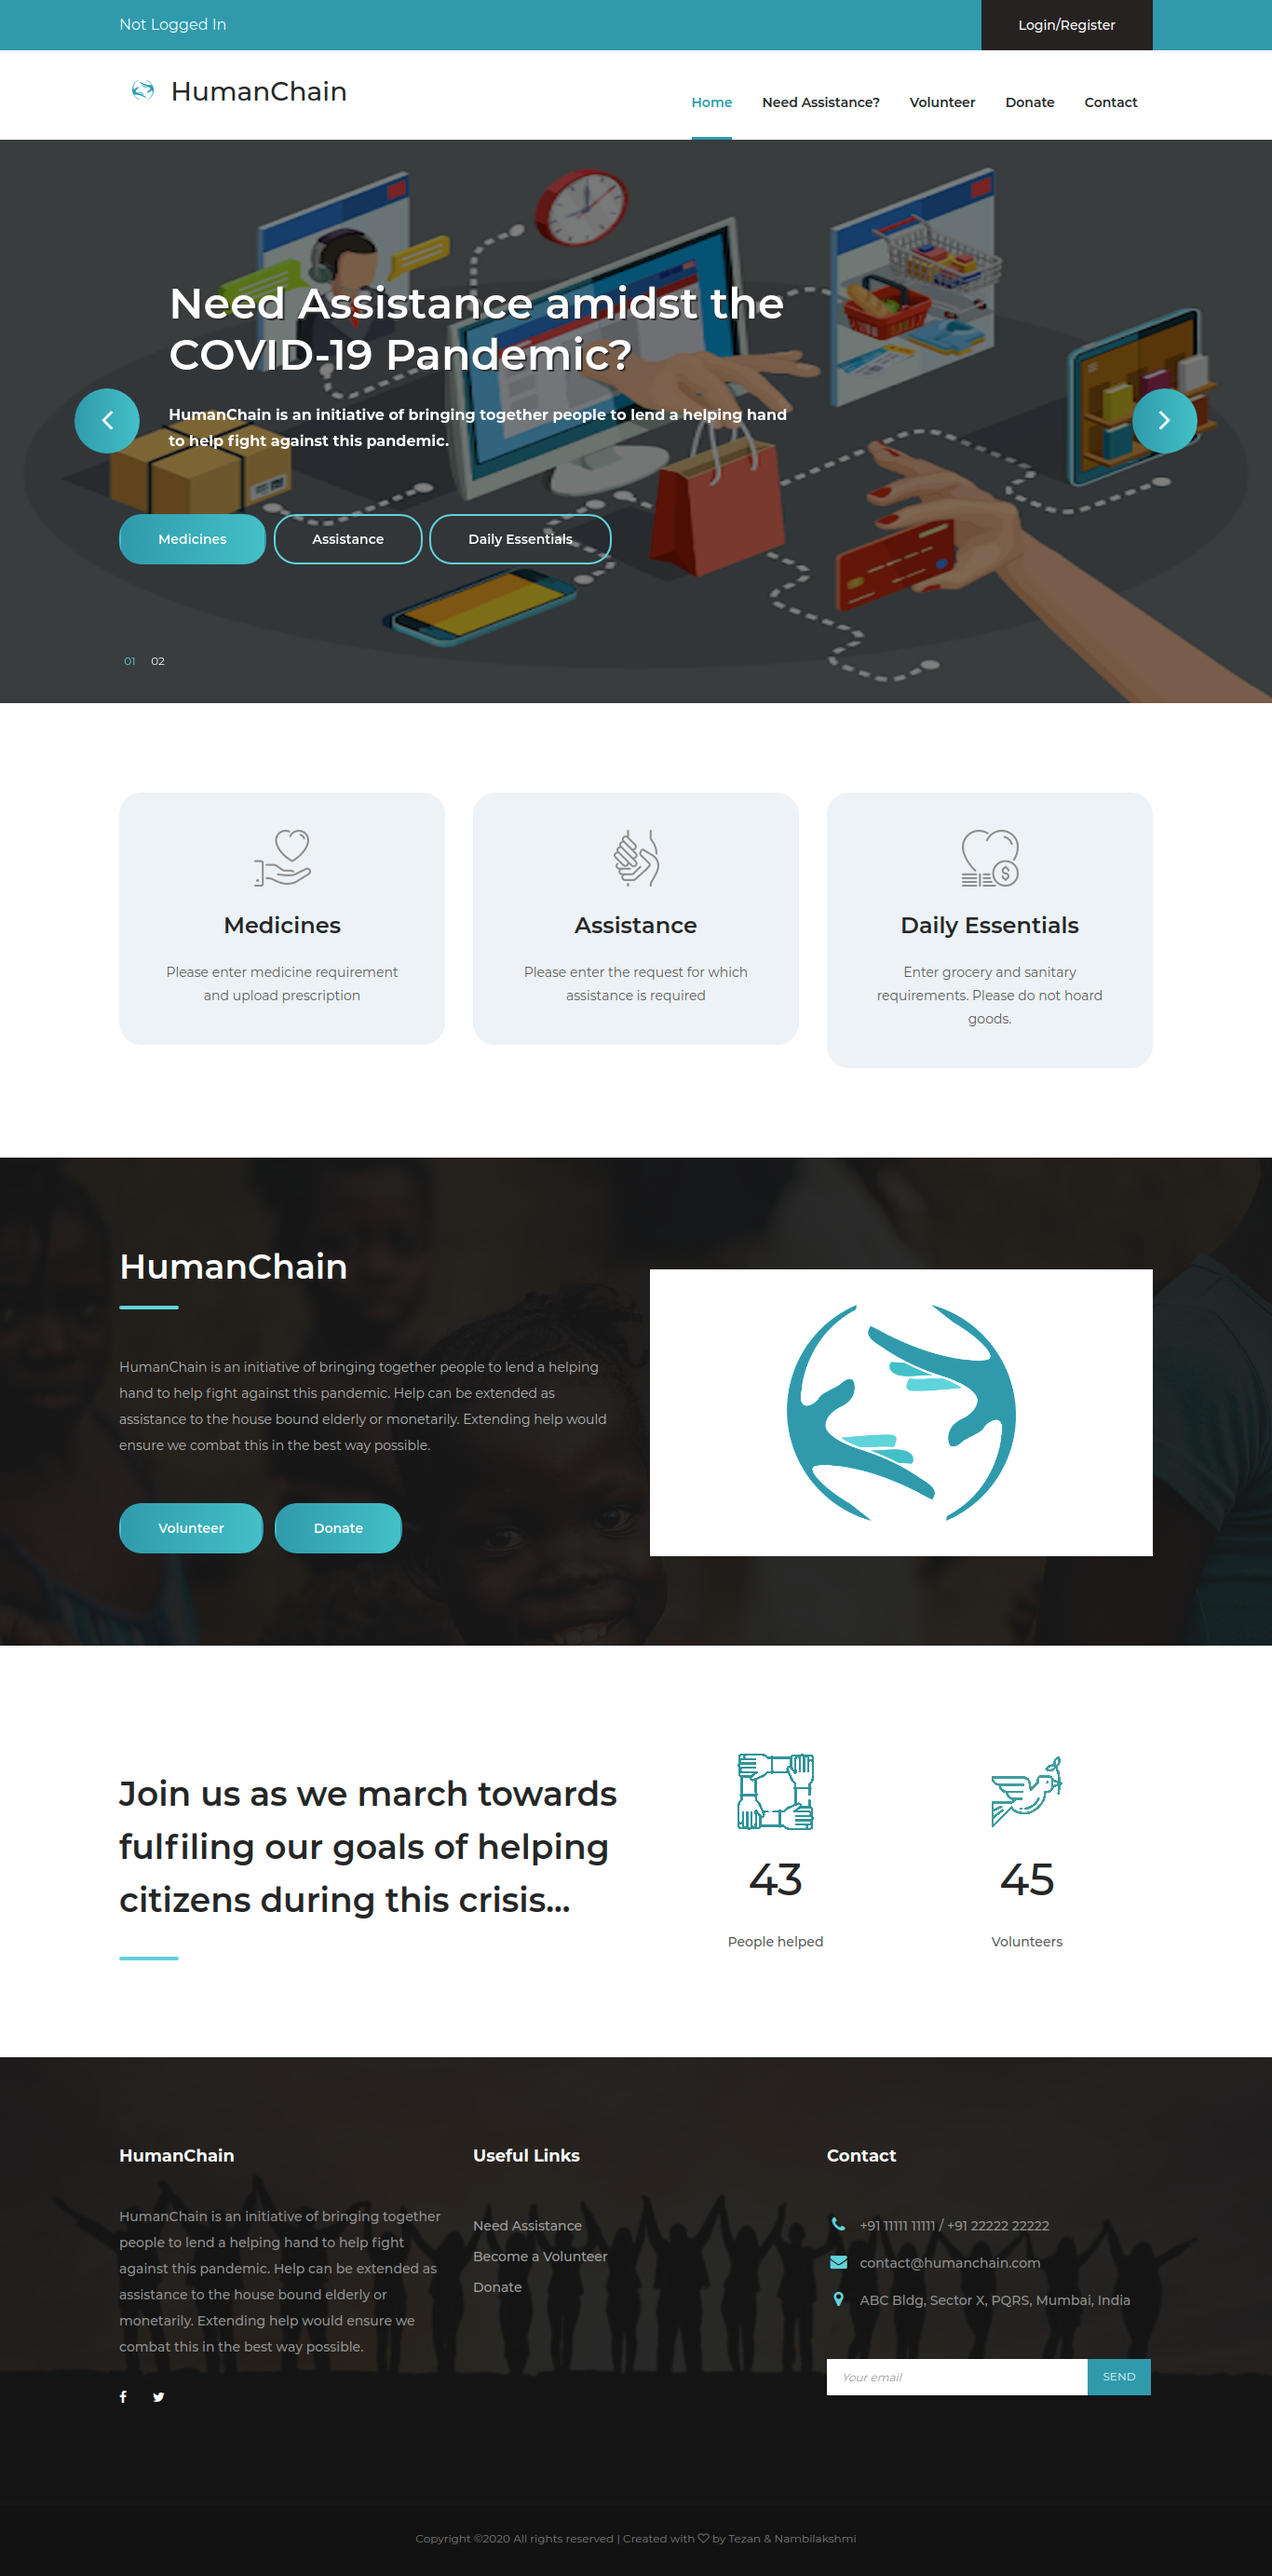
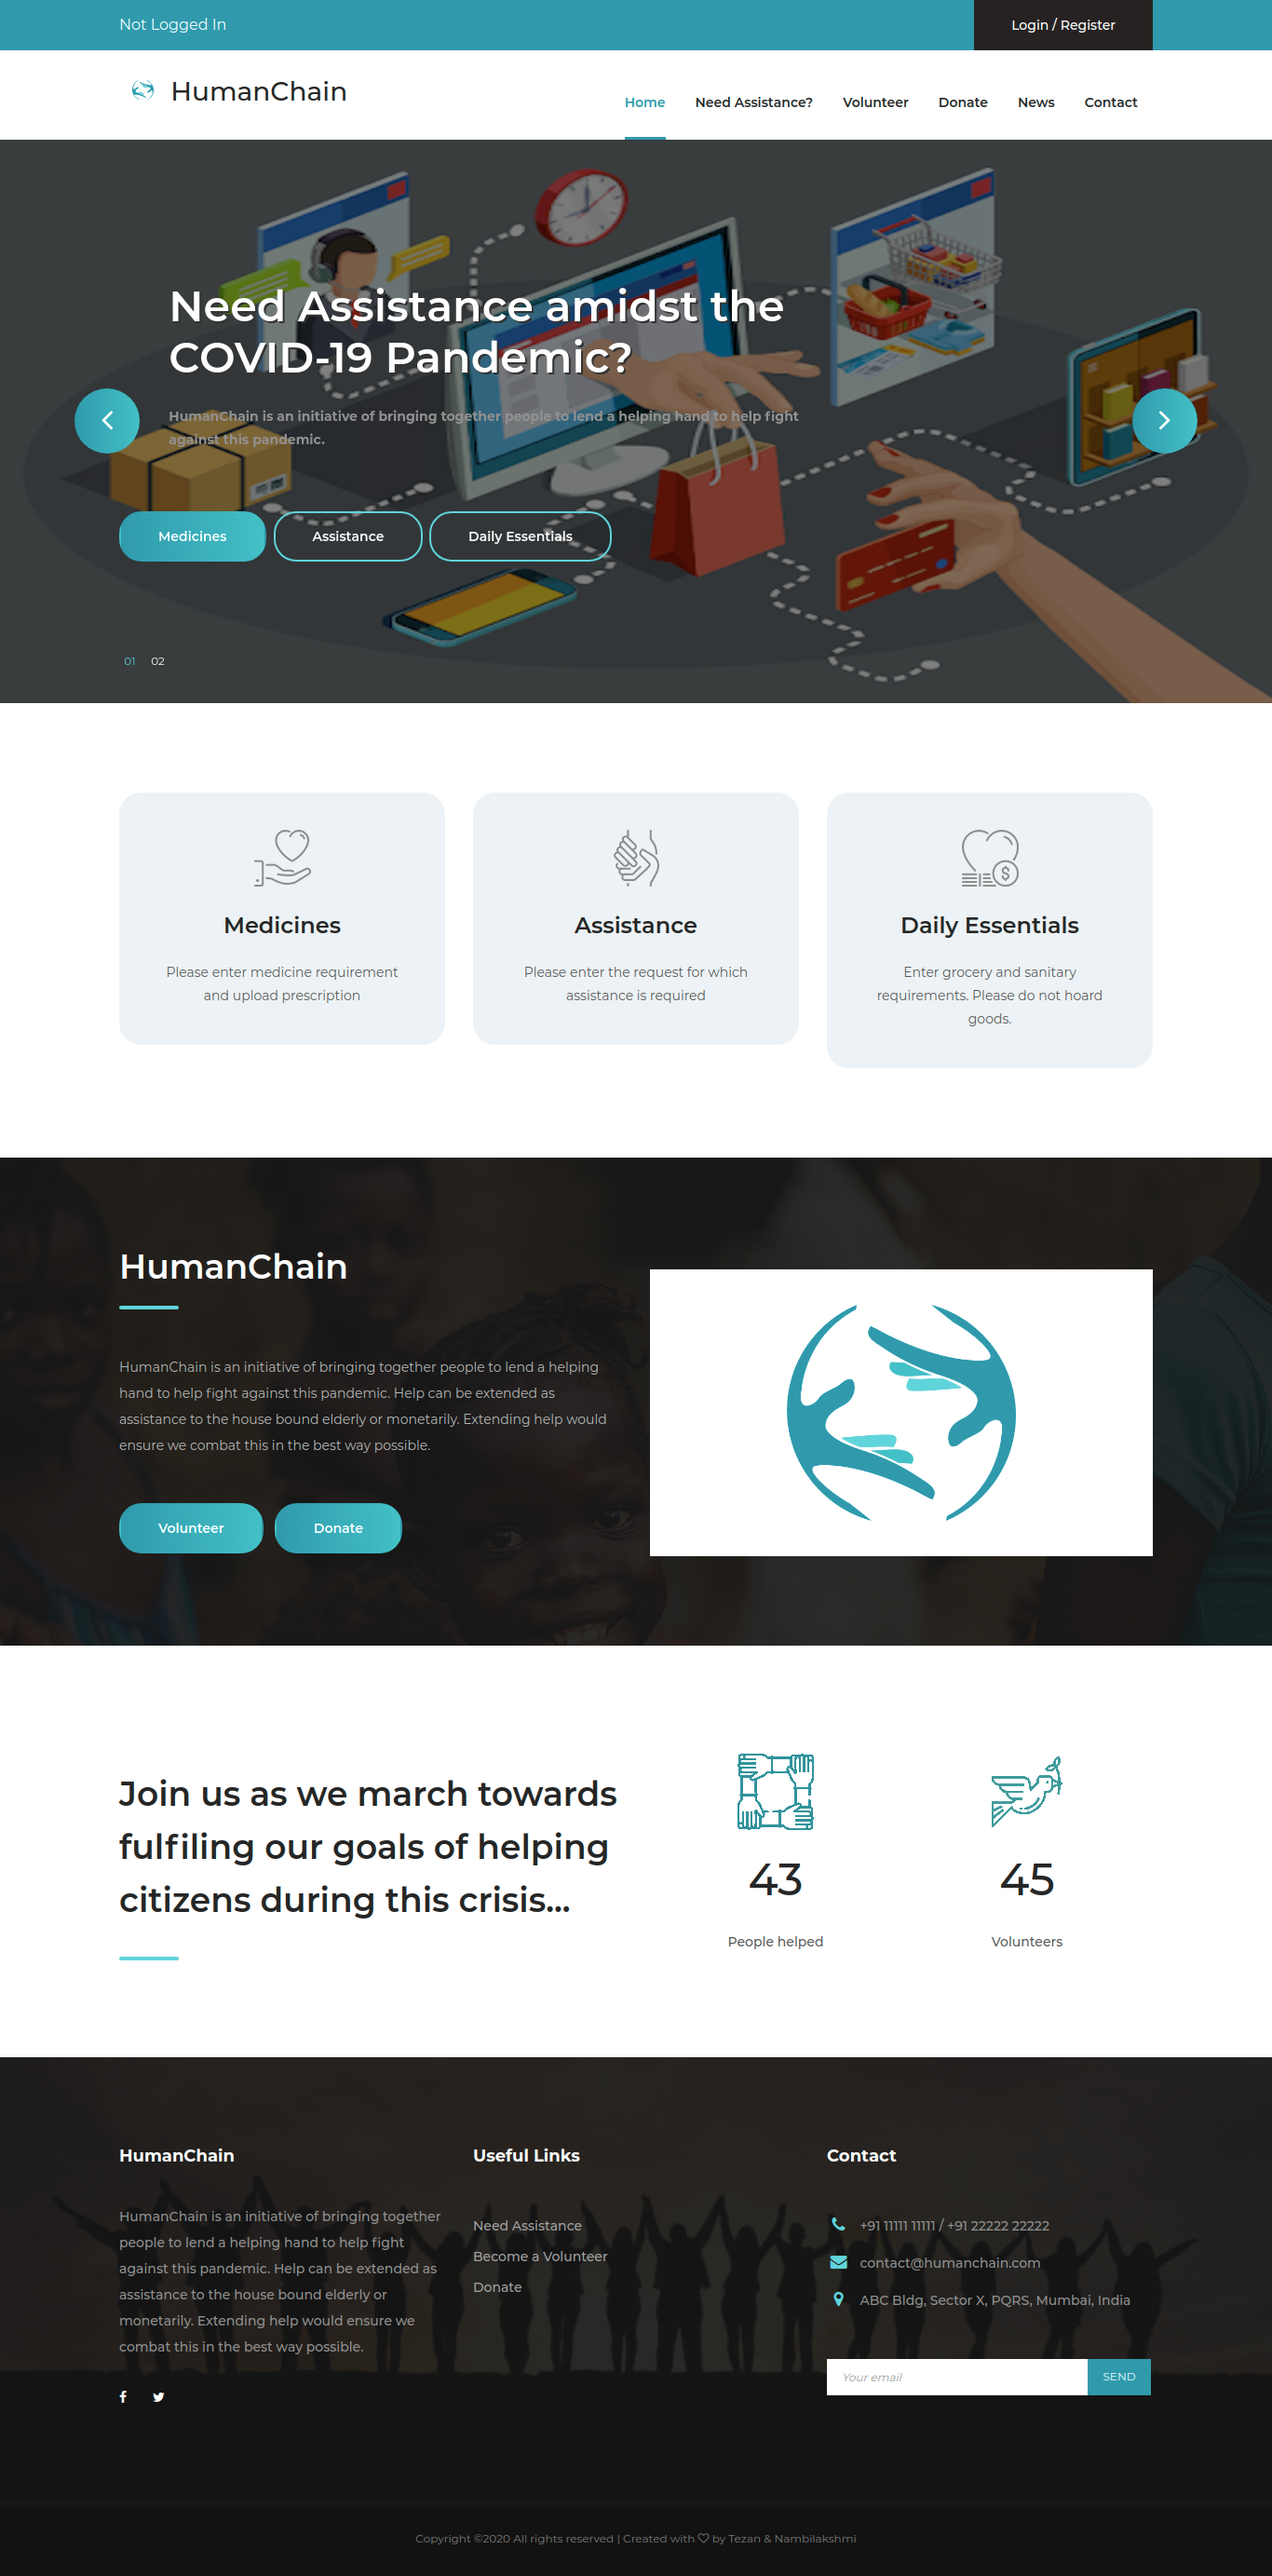
updated readme

diff --git a/README.md b/README.md
@@ -1,34 +1,41 @@
 <h1 align="center">HumanChain</h1>
 <p align="center"> </p>
 
-***
-
-### Problem Statement 
+## Problem Statement 
 Our world turned upside down with the outbreak. With the ever-growing numbers, essential services have come to a stop, the everyday routine is constricted to with people being forced to go into lockdown. In such a scenario, panic is profound and ubiquitous. Procuring daily supplies is becoming increasingly nightmarish and homebound patients who need assistance are helpless. Though people have been asking help through varied platforms and some have also offered help, there is an absence of a universal stop which serves all needs.
 
-### Our Solution: HumanChain 
+## Our Solution: HumanChain 
 
 HumanChain is an interface that bridges the gap and brings together these people as it suggests, build a human chain for providing help for those in need, to fight this pandemic.
 
 ![github-small](/client/images/launchpage.png) 
 
-### Features
-#### Need Assistance?
-Enter personal details along with the details of the requirement. Assistance is divided into three categories, 
-1. Medical (upload prescription)
-2. Physical Assistance
-3. Daily Essentials (groceries, milk etc..)
-#### Volunteer
-One can enlist to volunteer for those in need. The page showcases details of people who need help and the type of help required.
-#### Donate
-Currently, a monetary donation can be made for two main causes
-1. Welfare aid
-2. Medical aid
-An additional feature is donation in kind, where one can upload supplies the person can donate for those in need. Includes food, groceries & sanitaryware
-#### News 
-This page shows COVID related news from all over the world along with a live counter of the number of people affected by it in a country-wise tally
+## Features
 
-## Challenges we ran into
+### Need Assistance?
+Enter personal details along with some details of the requirement. Assistance is offered under three categories, 
+1. Medicines [After uploading prescription to IPFS]
+2. Physical Assistance
+3. Daily Essentials [groceries, milk, etc.]
+
+While requesting for medicines or daily essentials, the person would have to pay the price of the products to the volunteer in cash.
+
+### Volunteer
+One can enlist to volunteer for those in need. The page showcases details of people who need help and the type of help required.
+
+For medicines, volunteers could view the prescription uploaded to IPFS for authenticity of the request.
+
+### Donate
+The platform allows individuals to offer donations both __in cash and kind__ to combat the pandemic.
+
+Financial donations could be made for the causes listed. We have provided and interface for donations via cryptocurrency (ETH) as well as by Card [A test payment gateway has been included].
+
+The feature of donation in kind allows one can upload supplies the person can donate for those in need. Includes groceries, sanitation products, etc.
+
+### News 
+This page shows COVID related news from all over the world along with a live counter of the number of people affected by it in a country-wise tally.
+
+## Challenges we faced
 
 1. Issues with versions of `web3.js`
 2. Integration of the frontend with firebase & ethereum
